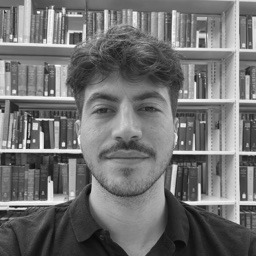
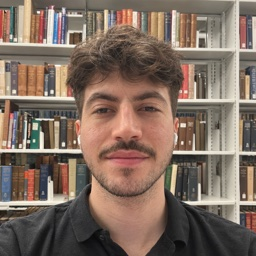
Light theme, colour headshot

diff --git a/styles.css b/styles.css
@@ -7,15 +7,15 @@
 
 /* Typography and Colors */
 :root {
-    color-scheme: dark;
-    --color-text: #ece7dd;
-    --color-text-light: #cfc8bb;
-    --color-bg: #222222;
-    --color-meta: #958c7e;
-    --color-link: #ece7dd;
-    --color-link-hover: #a3a3a3;
-    --color-accent: #a3a3a3;
-    --color-border: #363636;
+    color-scheme: light;
+    --color-text: #1f1f1f;
+    --color-text-light: #3d3d3d;
+    --color-bg: #f7f7f7;
+    --color-meta: #6b6b6b;
+    --color-link: #1f1f1f;
+    --color-link-hover: #6b6b6b;
+    --color-accent: #6b6b6b;
+    --color-border: #e0e0e0;
     --max-width: 580px;
 }
 
@@ -180,12 +180,12 @@ a:hover {
 /* Main content links */
 .section a:not(.contact-links a) {
     text-decoration: underline;
-    text-decoration-color: rgba(255, 255, 255, 0.25);
+    text-decoration-color: rgba(0, 0, 0, 0.2);
     text-underline-offset: 3px;
 }
 
 .section a:not(.contact-links a):hover {
-    text-decoration-color: rgba(255, 255, 255, 0.55);
+    text-decoration-color: rgba(0, 0, 0, 0.5);
 }
 
 /* Footer */
@@ -304,24 +304,12 @@ footer {
 
 /* Selection */
 ::selection {
-    background-color: rgba(255, 255, 255, 0.18);
+    background-color: rgba(0, 0, 0, 0.1);
     color: var(--color-text);
 }
 
 /* Print Styles */
 @media print {
-    /* Dark backgrounds don't print; switch back to dark-on-white */
-    :root {
-        color-scheme: light;
-        --color-text: #1f1d1a;
-        --color-text-light: #45413a;
-        --color-bg: #ffffff;
-        --color-meta: #8a8377;
-        --color-link: #1f1d1a;
-        --color-accent: #8a8a8a;
-        --color-border: #e6e1d6;
-    }
-
     .container {
         max-width: 100%;
         padding: 0;
